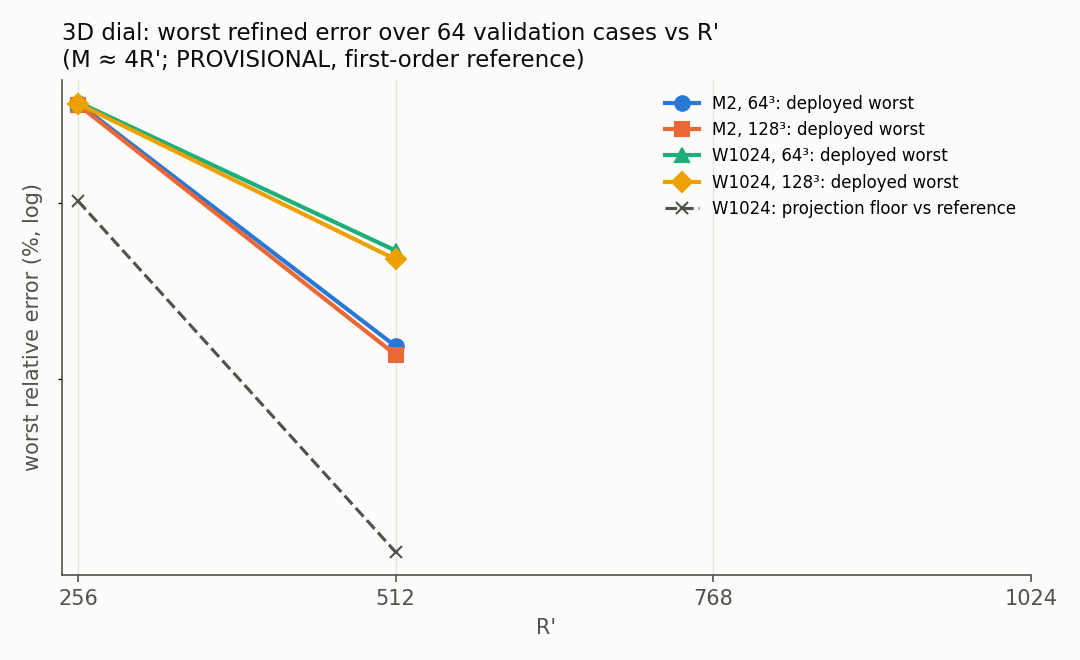
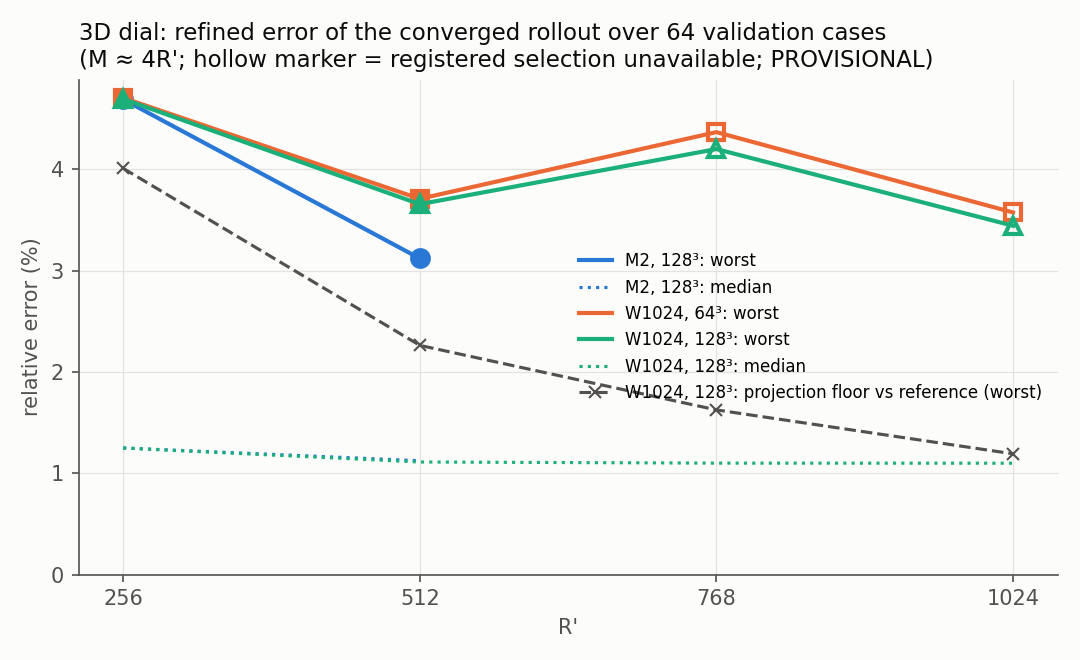
mirror of 57a7c653d: jcp-wide-bank: 3D dial plot shows converged rollouts at all R' (hollow = selection unavailable), median and floor

diff --git a/experiments/jcp-wide-bank/make_report.py b/experiments/jcp-wide-bank/make_report.py
@@ -624,23 +624,31 @@ def plots_3d(recs, tag):
     meshes = sorted({r['n'] for r in recs})
     f, ax = fig()
     i = 0
+    nmax = max(meshes)
     for bn in banks:
         for n in meshes:
-            rs = sorted([r for r in recs if r['bank'] == bn and r['n'] == n and r['kappa'] == 4 and r['dep_worst']],
-                        key=lambda r: r['Rp'])
-            if rs:
-                ax.plot([r['Rp'] for r in rs], [100 * r['dep_worst'] for r in rs], color=SERIES[i % 4], lw=2,
-                        marker=MARKERS[i % 4], ms=7, label=f'{bn}, {n - 1}³: deployed worst')
+            if n != nmax and bn != 'W1024':
+                continue
+            rs = sorted([r for r in recs if r['bank'] == bn and r['n'] == n and r['kappa'] == 4], key=lambda r: r['Rp'])
+            if not rs:
+                continue
+            c = SERIES[i % 4]
+            ax.plot([r['Rp'] for r in rs], [100 * r['conv_worst'] for r in rs], color=c, lw=2, label=f'{bn}, {n - 1}³: worst')
+            for r in rs:       # filled = deployed rule available; hollow = registered selection unavailable (gate failed)
+                ax.plot([r['Rp']], [100 * r['conv_worst']], color=c, marker=MARKERS[i % 4], ms=8, lw=0,
+                        markerfacecolor=c if r['dep'] else 'none', markeredgewidth=2)
+            if n == nmax:
+                ax.plot([r['Rp'] for r in rs], [100 * r['conv_med'] for r in rs], color=c, lw=1.5, ls=':',
+                        label=f'{bn}, {n - 1}³: median')
+            if bn == 'W1024' and n == nmax:
                 fl = [(r['Rp'], r['floor']) for r in rs if r['floor'] is not None]
-                if fl and bn == 'W1024' and n == max(meshes):
-                    ax.plot([x for x, _ in fl], [100 * y for _, y in fl], color=INK2, lw=1.5, ls='--', marker='x', ms=6,
-                            label=f'{bn}: projection floor vs reference')
-                i += 1
-    ax.set_yscale('log')
-    plain(ax)
+                ax.plot([x for x, _ in fl], [100 * y for _, y in fl], color=INK2, lw=1.5, ls='--', marker='x', ms=6,
+                        label=f'{bn}, {n - 1}³: projection floor vs reference (worst)')
+            i += 1
+    ax.set_ylim(bottom=0)
     ax.set_xticks(sorted({r['Rp'] for r in recs}))
-    style(ax, f"3D dial: worst refined error over 64 validation cases vs R'\n(M ≈ 4R'; PROVISIONAL, first-order reference)", "R'",
-          'worst relative error (%, log)')
+    style(ax, "3D dial: refined error of the converged rollout over 64 validation cases\n"
+              "(M ≈ 4R'; hollow marker = registered selection unavailable; PROVISIONAL)", "R'", 'relative error (%)')
     ax.legend(frameon=False, fontsize=8)
     save(f, f'3d_{tag}_error_vs_Rp.png')
     f, ax = fig()
